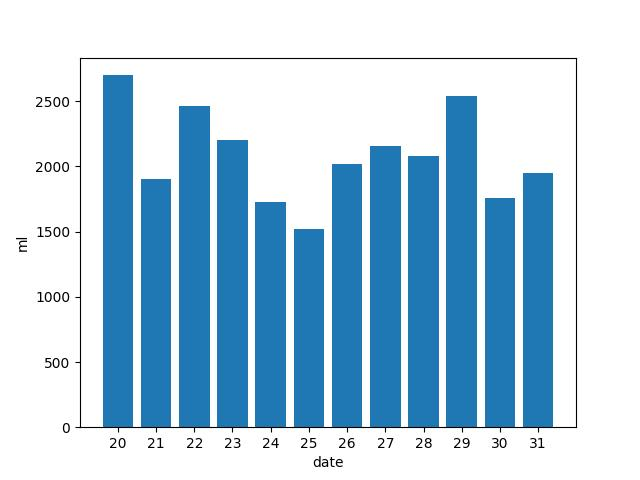
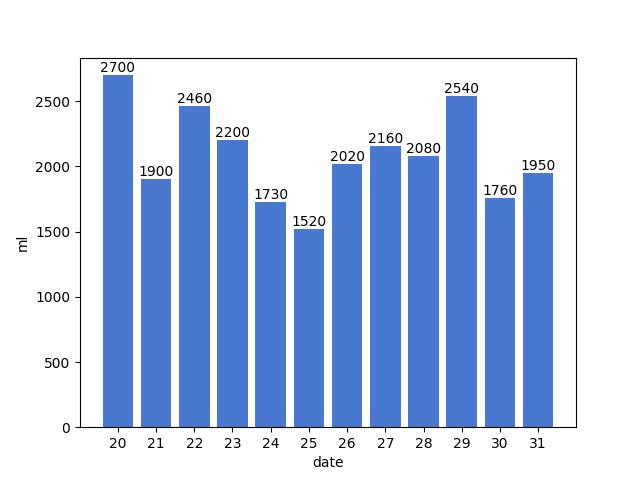
change style

diff --git a/writeReadme.py b/writeReadme.py
@@ -53,11 +53,12 @@ if timeD==13 and timeH==1: #and timeM==37:
             mlList.append(data['data'][date]['all'])
             monthAll += int(data['data'][date]['all'])
             monthCount += 1
-    #plt.style.use('seaborn-whitegr')
+    plt.style.use('seaborn-muted')
     plt.bar(dateList, mlList)
-    #plt.set(xlabel='date',ylabel='ml')
     plt.xlabel('date')
     plt.ylabel('ml')
+    for a, b in zip(dateList, mlList):
+        plt.text(a, b + 0.05, '%.0f' % b, ha='center', va='bottom')
     plt.savefig('historyData/'+str(timeY)+'/'+str(timeMonth-1)+'/'+str(timeMonth-1)+'.jpg')
     
     f.write('<div align=center>'+'\n'+'<img src="'+str(timeMonth-1)+'.jpg"style="zoom: 100%;" />'+'\n\n')
